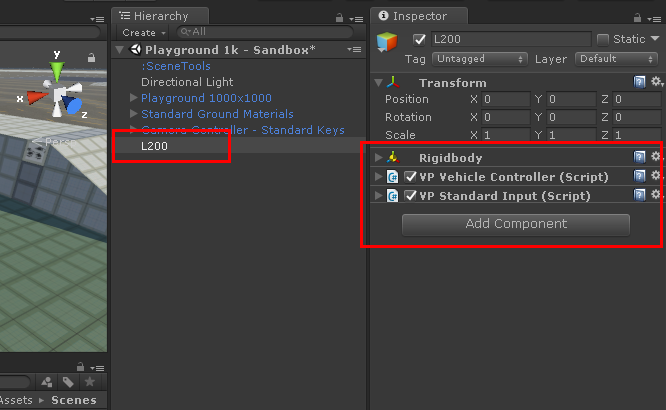
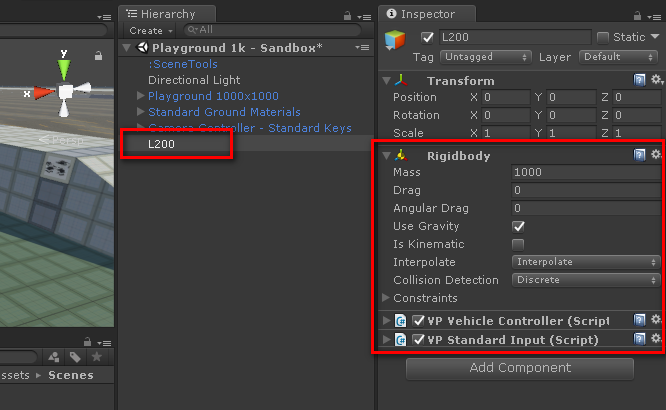
Added Axle configuration and First Test Drive instructions

diff --git a/docs/user-guide/vehicle-creation.md b/docs/user-guide/vehicle-creation.md
@@ -35,7 +35,8 @@ This scene contains everything you need: test scenario, camera, light, ground ma
 - Create an empty GameObject in the scene, name it **L200**.
 - Add these components from the Component menu or Add Component button:
 
-	- Component > Physics > **Rigidbody**
+	- Component > Physics > **Rigidbody**.<br>
+		_Mass_ = 1000, _Angular Drag_ = 0, _Interpolation_ = _Interpolate_
 	- Component > Vehicle Physics > **Vehicle Controller**
 	- Component > Vehicle Physics > Input > **Standard Input**
 
@@ -103,7 +104,18 @@ _"Configuring the VPWheelColliders manually"_ below if you need to do it manuall
 <div>
 ![](/img/user-guide/vpp-rig-tutorial-08.png){: .clickview }
 
-8- Add the vehicle collision mesh
+8- Configure the vehicle Axles
+{: .header }
+
+- Select the L200 GameObject.
+- Locate the **VPVehicleController** component and expand the **Axles** section.
+- Drag each wheel under WheelColliders to their corresponding slot as front/rear, left/right wheel.
+
+</div>
+<div>
+![](/img/user-guide/vpp-rig-tutorial-09.png){: .clickview }
+
+9- Add the vehicle collision mesh
 {: .header }
 
 The collision mesh is a simplified version of the vehicle mesh.
@@ -117,9 +129,9 @@ for important information and requirements on the collision mesh for your vehicl
 
 </div>
 <div>
-![](/img/user-guide/vpp-rig-tutorial-09.png){: .clickview }
+![](/img/user-guide/vpp-rig-tutorial-10.png){: .clickview }
 
-9- Configure the collision mesh as Collider
+10- Configure the collision mesh as Collider
 {: .header }
 
 - Select all the meshes that compose the collision mesh (_Base_ and _Top_ in this case).
@@ -127,7 +139,7 @@ for important information and requirements on the collision mesh for your vehicl
 - Configure the physic **Material** as _Vehicle Body_.
 - Remove the MeshRenderer and MeshFilter components.
 
-**&fa-check-square-o:lg;&nbsp; Done! The vehicle is ready for the first test.**
+**&fa-check-square-o:lg;&nbsp; Done! The vehicle is ready for the first test drive.**
 
 </div>
 </section>
@@ -161,6 +173,129 @@ $(document).on('ready', function() {
 	2. Use the VPWheelCollider's **center** property for moving the wheel gizmo to the outer bound
 		of the visual wheel.
 	3. Adjust the VPWheelCollider's **radius** for matching the radius of the visual wheel.
+
+### First test drive
+
+Let's check out if everything is ok so far in the vehicle. Review the steps above carefully if
+something doesn't work or you get some error.
+
+Note that vehicle dynamics are not configured at all - the car is using the default values for all
+components. This allows some fun driving, but the handling and behavior will be poor. The next
+chapter [Configuring Vehicles](https://vehiclephysics.com/user-guide/vehicle-setup/) describes
+everything you need to know to configure the car properly.
+<div class="slick-carousel">
+<section class="test-slider slider">
+<div>
+![](/img/user-guide/vpp-test-tutorial-01.png){: .clickview }
+
+1- Configure the camera to follow the car
+{: .header}
+
+- Select the **Camera Controller** GameObject.
+- Drag the **L200** GameObject from the Hierarchy to the **Target** property in the camera controller.
+
+</div>
+<div>
+![](/img/user-guide/vpp-test-tutorial-02.png){: .clickview }
+
+2- Click Play &fa-play:lg; in the editor!
+{: .header}
+
+- Throttle, brake, steering: **arrow keys** or **WSAD**
+- Handbrake: **space**
+- Clutch: **ctrl** (i.e. for hot starts)
+- Switch camera: **C**, **F1**-**F4**
+- Reset car: **Enter** (i.e. after rolling over)
+- Slow time mode: **T**
+
+</div>
+</section>
+</div>
+<script type="text/javascript">
+$(document).on('ready', function() {
+  $(".slider").slick({
+	dots: true,
+	arrows: true,
+	infinite: false,
+	draggable: false,
+	accessibility: false,
+	speed: 0,
+	pauseOnDotsHover: true,
+	fade: true,
+	slidesToShow: 1,
+	slidesToScroll: 1,
+	dotsClass: 'gusi-dots'
+  });
+});
+</script>
+
+### Adding and configuring effects
+
+Now let's add the basic audio and visual effects. You may Play &fa-play; the scene after each step for testing
+how it works.
+<div class="slick-carousel">
+<section class="test-slider slider">
+<div>
+![](/img/user-guide/vpp-effects-tutorial-01.png){: .clickview }
+
+1- Audio effects
+{: .header}
+
+
+</div>
+<div>
+![](/img/user-guide/vpp-effects-tutorial-02.png){: .clickview }
+
+2- Tire effects
+{: .header}
+
+
+</div>
+<div>
+![](/img/user-guide/vpp-effects-tutorial-03.png){: .clickview }
+
+3- Visual effects
+{: .header}
+
+The L200 test car is not prepared for visual effects. In your vehicles you can add a [VPVisualEffects](https://vehiclephysics.com/components/vehicle-addons/#vpvisualeffects)
+component for these visual effects:
+
+- Steering wheel rotation
+- Lights: head, brakes, reverse
+- Dashboard speed and rpm gauges
+- Dashboard lights
+
+</div>
+<div>
+![](/img/user-guide/vpp-effects-tutorial-04.png){: .clickview }
+
+4- Ground effects
+{: .header}
+
+
+</div>
+</section>
+</div>
+<script type="text/javascript">
+$(document).on('ready', function() {
+  $(".slider").slick({
+	dots: true,
+	arrows: true,
+	infinite: false,
+	draggable: false,
+	accessibility: false,
+	speed: 0,
+	pauseOnDotsHover: true,
+	fade: true,
+	slidesToShow: 1,
+	slidesToScroll: 1,
+	dotsClass: 'gusi-dots'
+  });
+});
+</script>
+
+
+
 
 ### The vehicle collider
 
@@ -218,13 +353,4 @@ standard keys (arrows or WSAD). Wheels should move and steer properly.
 for configuring the vehicle dynamics (engine, brakes, etc), or continue here for adding further
 components and features such as audio and visual effects.
 {: .alert .alert-success }
-
-
-### Cameras
-
-### Sounds
-
-### Ground materials and tire effects
-
-### Visual effects
 
